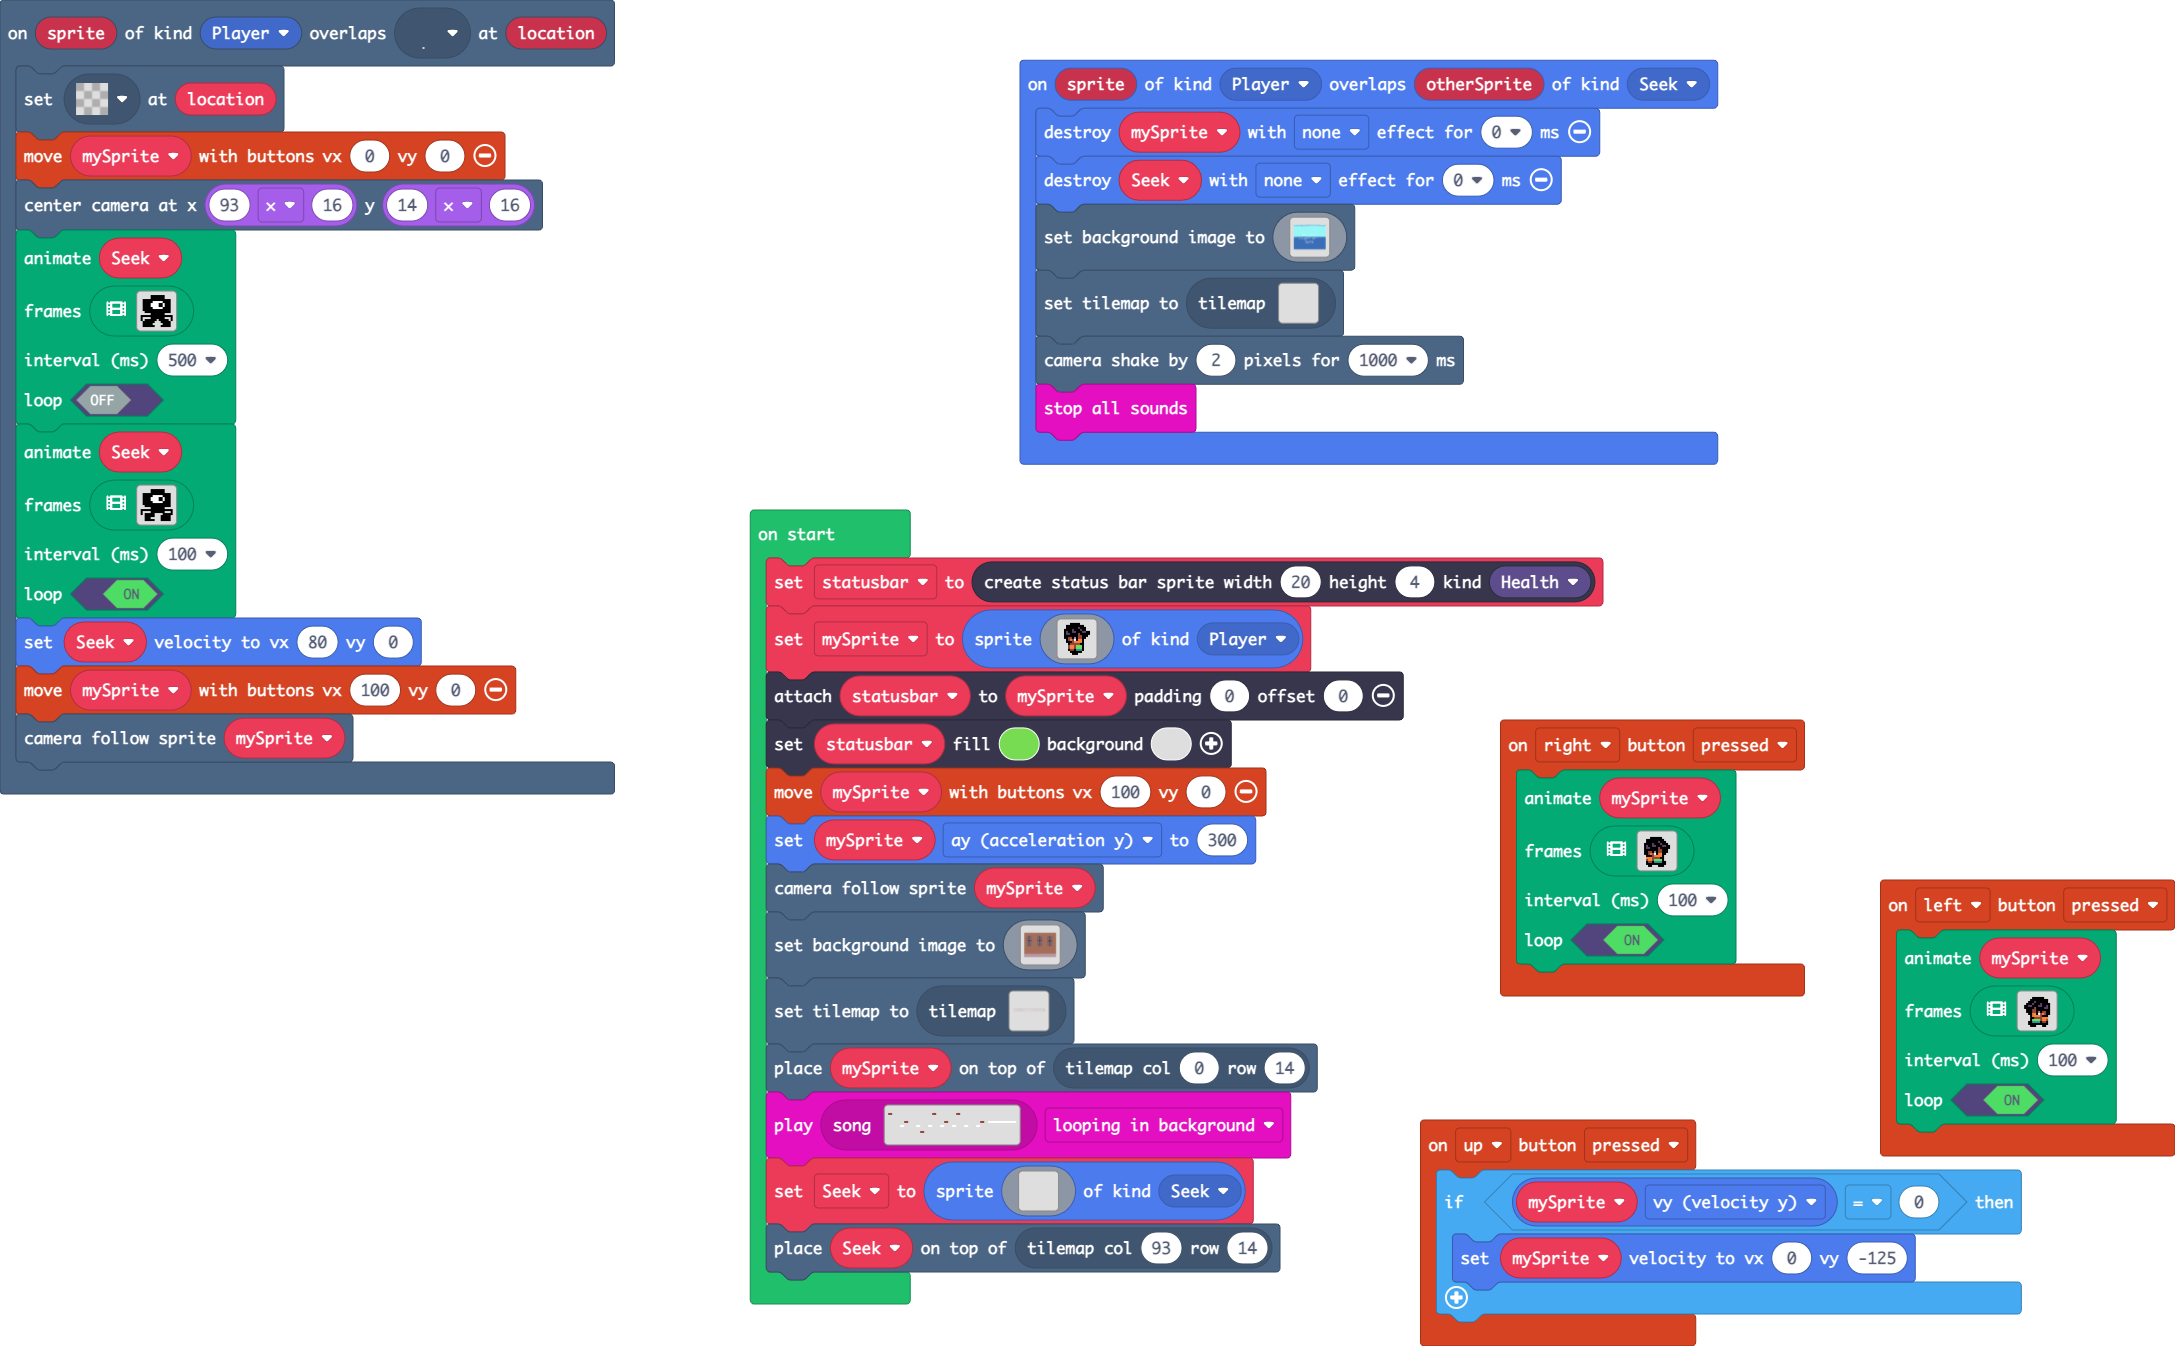
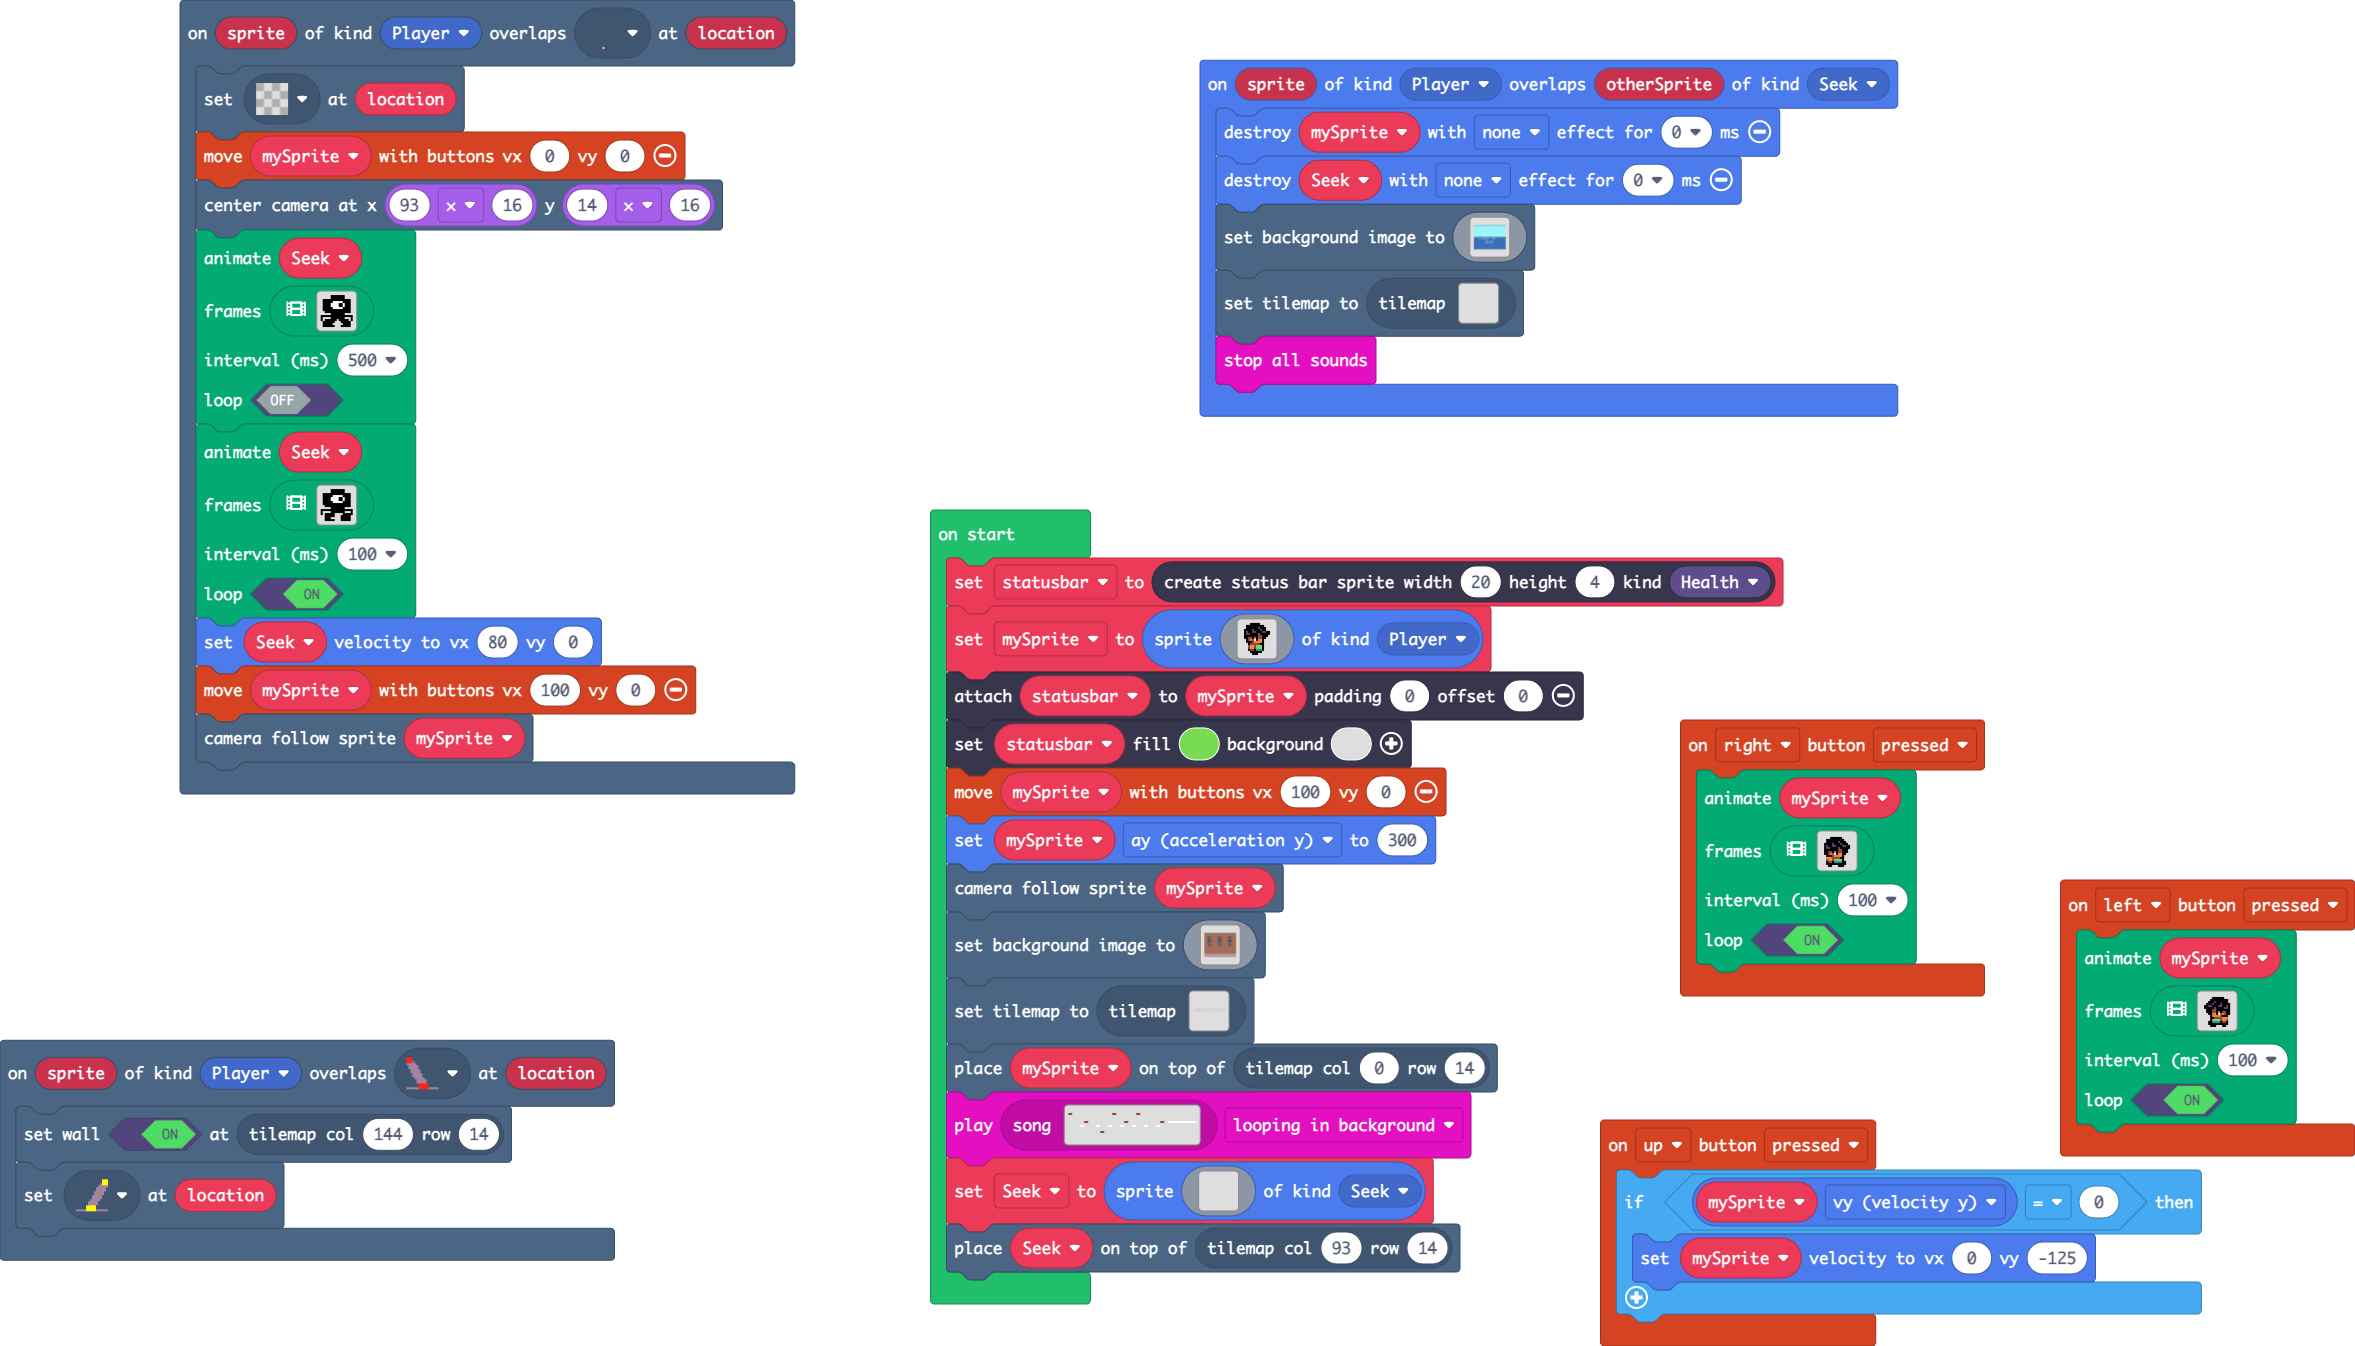
Update main.blocks, main.ts, tilemap.g.jres, tilemap.g.ts

diff --git a/tilemap.g.ts b/tilemap.g.ts
@@ -4,28 +4,13 @@ namespace myTiles {
     export const transparency16 = image.ofBuffer(hex``);
     //% fixedInstance jres blockIdentity=images._tile
     export const tile1 = image.ofBuffer(hex``);
+    //% fixedInstance jres blockIdentity=images._tile
+    export const tile2 = image.ofBuffer(hex``);
+    //% fixedInstance jres blockIdentity=images._tile
+    export const tile3 = image.ofBuffer(hex``);
 
     helpers._registerFactory("tilemap", function(name: string) {
         switch(helpers.stringTrim(name)) {
-            case "level1":
[1 lines of base64/hex data omitted]
-222222222222222222222222222222222222222222222222222222222222222222222222222222222222222222222222222222222222222222222222222222222222222222222222222222222222222222222222222222222222222222222222222222222222222222222222222222222222222222222222222222222222222
-...........2...........2...........2...........2..........2..........2..........2...........2...........2...........2.............2.............2..............2............2...........2............2.............2...........2...........2..........2........
-...........2...........2...........2...........2..........2..........2..........2...........2...........2...........2.............2.............2..............2............2...........2............2.............2...........2...........2..........2........
-...........2...........2...........2...........2..........2..........2..........2...........2...........2...........2.............2.............2..............2............2...........2............2.............2...........2...........2..........2........
-...........2...........2...........2...........2..........2..........2..........2...........2...........2...........2.............2.............2..............2............2...........2............2.............2...........2...........2..........2........
-...........2...........2...........2...........2..........2..........2..........2...........2...........2...........2.............2.............2..............2............2...........2............2.............2...........2...........2..........2........
-...........2...........2...........2...........2..........2..........2..........2...........2...........2...........2.............2.............2..............2............2...........2............2.............2...........2...........2..........2........
-...........2...........2...........2...........2..........2..........2..........2...........2...........2...........2.............2.............2..............2............2...........2............2.............2...........2...........2..........2........
-...........2...........2...........2...........2..........2..........2..........2...........2...........2...........2.............2.............2..............2............2...........2............2.............2...........2...........2..........2........
-...........2...........2...........2...........2..........2..........2..........2...........2...........2...........2.............2.............2..............2............2...........2............2.............2...........2...........2..........2........
-...........2...........2...........2...........2..........2..........2..........2...........2...........2...........2.............2.............2..............2............2...........2............2.............2...........2...........2..........2.....222
-...........2...........2...........2...........2..........2..........2..........2...........2...........2...........2.............2.............2..............2............2...........2............2.............2...........2...........2..........2....2222
-...........2...........2...........2...........2..........2..........2..........2...........2...........2...........2.............2.............2..............2............2...........2............2.............2...........2...........2..........2...22222
-...........2...........2...........2...........2..........2..........2..........2...........2...........2...........2.............2.............2..............2............2...........2............2.............2...........2...........2..........2..222222
-........................................................................................................................................................................................................................................................2222222
-222222222222222222222222222222222222222222222222222222222222222222222222222222222222222222222222222222222222222222222222222222222222222222222222222222222222222222222222222222222222222222222222222222222222222222222222222222222222222222222222222222222222222
-`, [myTiles.transparency16,sprites.dungeon.floorLight0,sprites.dungeon.floorDark0,myTiles.tile1], TileScale.Sixteen);
             case "level2":
             case "level2":return tiles.createTilemap(hex`1000100000000000000000000000000000000000000000000000000000000000000000000000000000000000000000000000000000000000000000000000000000000000000000000000000000000000000000000000000000000000000000000000000000000000000000000000000000000000000000000000000000000000000000000000000000000000000000000000000000000000000000000000000000000000000000000000000000000000000000000000000000000000000000000000000000000000000000000000000000000000000000000000000000000000000000000000000000000000000000000000000000000000000000000000000000000000`, img`
 . . . . . . . . . . . . . . . . 
@@ -64,6 +49,44 @@ namespace myTiles {
 . . . . . . . . . . . . . . . . 
 . . . . . . . . . . . . . . . . 
 `, [myTiles.transparency16], TileScale.Sixteen);
+            case "level4":
+            case "level4":return tiles.createTilemap(hex`1000100000000000000000000000000000000000000000000000000000000000000000000000000000000000000000000000000000000000000000000000000000000000000000000000000000000000000000000000000000000000000000000000000000000000000000000000000000000000000000000000000000000000000000000000000000000000000000000000000000000000000000000000000000000000000000000000000000000000000000000000000000000000000000000000000000000000000000000000000000000000000000000000000000000000000000000000000000000000000000000000000000000000000000000000000000000000`, img`
+. . . . . . . . . . . . . . . . 
+. . . . . . . . . . . . . . . . 
+. . . . . . . . . . . . . . . . 
+. . . . . . . . . . . . . . . . 
+. . . . . . . . . . . . . . . . 
+. . . . . . . . . . . . . . . . 
+. . . . . . . . . . . . . . . . 
+. . . . . . . . . . . . . . . . 
+. . . . . . . . . . . . . . . . 
+. . . . . . . . . . . . . . . . 
+. . . . . . . . . . . . . . . . 
+. . . . . . . . . . . . . . . . 
+. . . . . . . . . . . . . . . . 
+. . . . . . . . . . . . . . . . 
+. . . . . . . . . . . . . . . . 
+. . . . . . . . . . . . . . . . 
+`, [myTiles.transparency16], TileScale.Sixteen);
+            case "level1":
[1 lines of base64/hex data omitted]
+222222222222222222222222222222222222222222222222222222222222222222222222222222222222222222222222222222222222222222222222222222222222222222222222222222222222222222222222222222222222222222222222222222222222222222222222222222222222222222222222222222222222222
+...........2...........2...........2...........2..........2..........2..........2...........2...........2...........2.............2.............2..............2............2...........2............2.............2...........2...........2..........2........
+...........2...........2...........2...........2..........2..........2..........2...........2...........2...........2.............2.............2..............2............2...........2............2.............2...........2...........2..........2........
+...........2...........2...........2...........2..........2..........2..........2...........2...........2...........2.............2.............2..............2............2...........2............2.............2...........2...........2..........2........
+...........2...........2...........2...........2..........2..........2..........2...........2...........2...........2.............2.............2..............2............2...........2............2.............2...........2...........2..........2........
+...........2...........2...........2...........2..........2..........2..........2...........2...........2...........2.............2.............2..............2............2...........2............2.............2...........2...........2..........2........
+...........2...........2...........2...........2..........2..........2..........2...........2...........2...........2.............2.............2..............2............2...........2............2.............2...........2...........2..........2........
+...........2...........2...........2...........2..........2..........2..........2...........2...........2...........2.............2.............2..............2............2...........2............2.............2...........2...........2..........2........
+...........2...........2...........2...........2..........2..........2..........2...........2...........2...........2.............2.............2..............2............2...........2............2.............2...........2...........2..........2........
+...........2...........2...........2...........2..........2..........2..........2...........2...........2...........2.............2.............2..............2............2...........2............2.............2...........2...........2..........2........
+...........2...........2...........2...........2..........2..........2..........2...........2...........2...........2.............2.............2..............2............2...........2............2.............2...........2...........2..........2.....222
+...........2...........2...........2...........2..........2..........2..........2...........2...........2...........2.............2.............2..............2............2...........2............2.............2...........2...........2..........2....2222
+...........2...........2...........2...........2..........2..........2..........2...........2...........2...........2.............2.............2..............2............2...........2............2.............2...........2...........2..........2...22222
+...........2...........2...........2...........2..........2..........2..........2...........2...........2...........2.............2.............2..............2............2...........2............2.............2...........2...........2..........2..222222
+........................................................................................................................................................................................................................................................2222222
+222222222222222222222222222222222222222222222222222222222222222222222222222222222222222222222222222222222222222222222222222222222222222222222222222222222222222222222222222222222222222222222222222222222222222222222222222222222222222222222222222222222222222
+`, [myTiles.transparency16,sprites.dungeon.floorLight0,sprites.dungeon.floorDark0,myTiles.tile1,myTiles.tile2,myTiles.tile3], TileScale.Sixteen);
         }
         return null;
     })
@@ -73,6 +96,10 @@ namespace myTiles {
             case "transparency16":return transparency16;
             case "myTile":
             case "tile1":return tile1;
+            case "myTile0":
+            case "tile2":return tile2;
+            case "myTile1":
+            case "tile3":return tile3;
         }
         return null;
     })

diff --git a/main.ts b/main.ts
@@ -1,6 +1,10 @@
 namespace SpriteKind {
     export const Seek = SpriteKind.create()
 }
+scene.onOverlapTile(SpriteKind.Player, assets.tile`myTile0`, function (sprite, location) {
+    tiles.setWallAt(tiles.getTileLocation(144, 14), true)
+    tiles.setTileAt(location, assets.tile`myTile1`)
+})
 controller.up.onEvent(ControllerButtonEvent.Pressed, function () {
     if (mySprite.vy == 0) {
         mySprite.setVelocity(0, -125)
@@ -132,7 +136,6 @@ sprites.onOverlap(SpriteKind.Player, SpriteKind.Seek, function (sprite, otherSpr
         8888888888888888888888888888888888888888888888888888888888888888888888888888888888888888888888888888888888888888888888888888888888888888888888888888888888888888
         `)
     tiles.setCurrentTilemap(tilemap`level2`)
-    scene.cameraShake(2, 1000)
     music.stopAllSounds()
 })
 scene.onOverlapTile(SpriteKind.Player, assets.tile`myTile`, function (sprite, location) {
